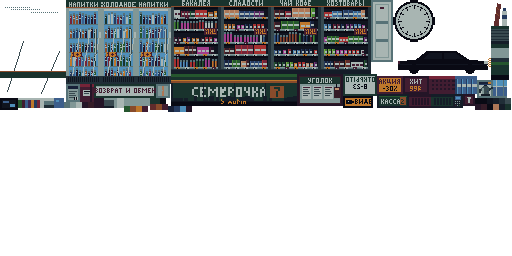
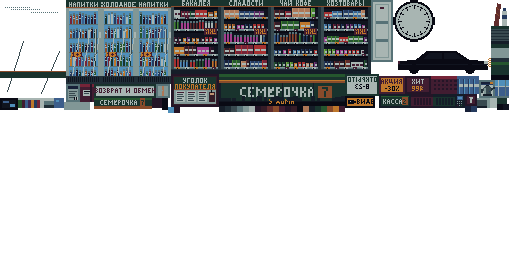
Магазин в узком кадре телефона читается: над администратором световой короб «Семёрочка 7», стеллажи вплотную к уголку, «Уголок покупателя» полностью, часы над левым стеллажом

Changed region(s): [[0.125, 0.2812, 1.0, 0.4375]]

diff --git a/src/game/world3d/rooms/shop.gen.ts b/src/game/world3d/rooms/shop.gen.ts
@@ -1,6 +1,6 @@
 // Сгенерировано tools/art/rooms_a.py — не править руками.
 // Раскладка атласа (x, y, w, h в текселях) и места вещей, по которым запечены тени и свет.
 
-export const ATLAS = {"w": 512, "h": 256, "rects": {"glass_in": [1, 1, 64, 96], "fridge0": [67, 1, 33, 82], "fridge1": [102, 1, 33, 82], "fridge2": [137, 1, 33, 82], "shelf0": [172, 1, 48, 72], "shelf1": [222, 1, 48, 72], "shelf2": [272, 1, 48, 72], "shelf3": [322, 1, 48, 72], "gate": [372, 1, 20, 60], "clock": [394, 1, 40, 40], "car_night": [394, 43, 96, 32], "counter_front": [172, 75, 124, 30], "board": [298, 75, 44, 30], "cart_goods": [492, 1, 16, 24], "hours": [344, 75, 32, 20], "akcia": [378, 77, 24, 16], "hit": [404, 77, 24, 16], "cart": [430, 77, 24, 16], "water6": [456, 77, 20, 16], "shelf_side": [492, 27, 16, 16], "fridge_side": [492, 45, 16, 16], "counter_side": [492, 63, 16, 16], "kettle_box": [478, 81, 14, 16], "water_side": [494, 81, 12, 16], "kettle_side": [67, 85, 12, 16], "ext": [81, 85, 12, 16], "ret_sign": [95, 85, 60, 12], "kassa": [378, 95, 30, 12], "basket": [410, 95, 20, 12], "basket_g": [432, 95, 20, 12], "kettle_top": [157, 85, 12, 12], "terminal": [454, 95, 8, 12], "cctv": [344, 97, 28, 10], "display": [1, 99, 16, 10], "ext_sign": [464, 95, 10, 10], "gum": [19, 99, 24, 8], "chrome": [45, 99, 8, 8], "water_top": [55, 99, 8, 8], "cart_top": [95, 99, 8, 8], "alu": [105, 99, 8, 8], "pole": [115, 99, 8, 8], "gate_edge": [125, 99, 24, 6], "clock_rim": [151, 99, 8, 4], "c36": [161, 99, 4, 4], "c37": [476, 99, 4, 4], "c38": [482, 99, 4, 4], "c39": [488, 99, 4, 4], "c40": [494, 99, 4, 4], "c41": [500, 99, 4, 4], "c42": [506, 99, 4, 4], "c43": [65, 103, 4, 4], "c44": [71, 103, 4, 4], "c45": [77, 103, 4, 4], "c19": [83, 103, 4, 4], "c20": [89, 103, 4, 4], "c21": [151, 105, 4, 4], "c22": [131, 107, 4, 4], "c27": [143, 107, 4, 4], "c12": [476, 105, 4, 4], "c13": [482, 105, 4, 4], "c18": [488, 105, 4, 4], "c16": [494, 105, 4, 4], "c7": [500, 105, 4, 4], "c8": [506, 105, 4, 4], "c9": [125, 107, 4, 4], "c23": [137, 107, 4, 4], "c2": [169, 107, 4, 4], "c3": [175, 107, 4, 4], "c5": [181, 107, 4, 4], "c26": [187, 107, 4, 4]}} as const
+export const ATLAS = {"w": 512, "h": 256, "rects": {"glass_in": [1, 1, 64, 96], "fridge0": [67, 1, 33, 82], "fridge1": [102, 1, 33, 82], "fridge2": [137, 1, 33, 82], "shelf0": [172, 1, 48, 72], "shelf1": [222, 1, 48, 72], "shelf2": [272, 1, 48, 72], "shelf3": [322, 1, 48, 72], "gate": [372, 1, 20, 60], "clock": [394, 1, 40, 40], "car_night": [394, 43, 96, 32], "board": [172, 75, 46, 31], "counter_front": [220, 75, 124, 30], "cart_goods": [492, 1, 16, 24], "hours": [346, 75, 32, 20], "akcia": [380, 77, 24, 16], "hit": [406, 77, 24, 16], "cart": [432, 77, 24, 16], "water6": [458, 77, 20, 16], "shelf_side": [492, 27, 16, 16], "fridge_side": [492, 45, 16, 16], "counter_side": [492, 63, 16, 16], "kettle_box": [480, 81, 14, 16], "water_side": [496, 81, 12, 16], "kettle_side": [67, 85, 12, 16], "ext": [81, 85, 12, 16], "ret_sign": [95, 85, 60, 12], "kassa": [380, 95, 30, 12], "basket": [412, 95, 20, 12], "basket_g": [434, 95, 20, 12], "kettle_top": [157, 85, 12, 12], "terminal": [456, 95, 8, 12], "cctv": [346, 97, 28, 10], "display": [1, 99, 16, 10], "ext_sign": [466, 95, 10, 10], "brand_box": [95, 99, 56, 9], "gum": [19, 99, 24, 8], "chrome": [45, 99, 8, 8], "water_top": [55, 99, 8, 8], "cart_top": [153, 99, 8, 8], "alu": [478, 99, 8, 8], "pole": [488, 99, 8, 8], "gate_edge": [65, 103, 24, 6], "clock_rim": [498, 99, 8, 4], "c36": [163, 99, 4, 4], "c37": [163, 105, 4, 4], "c38": [498, 105, 4, 4], "c39": [504, 105, 4, 4], "c40": [220, 107, 4, 4], "c41": [226, 107, 4, 4], "c42": [232, 107, 4, 4], "c43": [238, 107, 4, 4], "c44": [244, 107, 4, 4], "c45": [250, 107, 4, 4], "c19": [256, 107, 4, 4], "c20": [262, 107, 4, 4], "c21": [268, 107, 4, 4], "c22": [328, 107, 4, 4], "c27": [340, 107, 4, 4], "c12": [286, 107, 4, 4], "c13": [292, 107, 4, 4], "c18": [298, 107, 4, 4], "c16": [304, 107, 4, 4], "c7": [310, 107, 4, 4], "c8": [316, 107, 4, 4], "c9": [322, 107, 4, 4], "c23": [334, 107, 4, 4], "c2": [466, 107, 4, 4], "c3": [472, 107, 4, 4], "c5": [169, 108, 4, 4], "c26": [175, 108, 4, 4]}} as const
 
-export const PLACE = {"fridges": [-2.62, -0.1, 2.05, 0.66], "shelves": [["back", -3.15, 2, 1.8, 0.42, 0], ["back", 0.75, 2, 1.8, 0.42, 2], ["right", 0.3, 1, 1.8, 0.42, 1], ["front", -3.15, 1, 1.8, 0.4, 3], ["front", 1.95, 1, 1.8, 0.4, 0]], "board": [-0.56, 0.56, 1.0, 1.74], "ret_sign": [1.5, 2.0, 1.4, 0.28], "band": [2.32, 2.62], "glass": [-2.45, 1.95, 0.1, 2.5], "door": [-0.55, 0.7], "gates": [[-2.72, -0.75], [-2.72, 0.9]], "baskets": [-2.62, 1.5], "lamps": [[-1.3, -1.95], [1.3, -1.95], [-1.3, 0.45], [1.3, 0.45]], "kassa": [1.47, -0.8, 2.02], "kettle": [0.47, -0.78, -0.12], "gum": [1.3, 0.1, -0.12], "terminal": [0.8, -0.08, -0.35], "display": [1.3, -0.42, -0.35], "tray": [0.74, 0.17], "promo": [-1.82, -0.22], "cart": [1.84, -0.2], "view": [-3.5, -2.55, 2.05, -0.15, 2.75]} as const
+export const PLACE = {"fridges": [-2.62, -0.1, 2.05, 0.66], "shelves": [["back", -2.95, 2, 1.8, 0.42, 0], ["back", 0.55, 2, 1.8, 0.42, 2], ["right", 0.3, 1, 1.8, 0.42, 1], ["front", -3.15, 1, 1.8, 0.4, 3], ["front", 1.95, 1, 1.8, 0.4, 0]], "board": [-0.46, 0.46, 1.02, 1.68], "brand_box": [-0.62, 0.62, 1.78, 1.96], "clock": [-1.02, 1.99], "ret_sign": [1.36, 2.0, 1.3, 0.28], "band": [2.32, 2.62], "glass": [-2.45, 1.95, 0.1, 2.5], "door": [-0.55, 0.7], "gates": [[-2.72, -0.75], [-2.72, 0.9]], "baskets": [-2.62, 1.5], "lamps": [[-1.3, -1.95], [1.3, -1.95], [-1.3, 0.45], [1.3, 0.45]], "kassa": [1.47, -0.8, 2.02], "kettle": [0.47, -0.78, -0.12], "gum": [1.3, 0.1, -0.12], "terminal": [0.8, -0.08, -0.35], "display": [1.3, -0.42, -0.35], "tray": [0.74, 0.17], "promo": [-1.82, -0.22], "cart": [1.84, -0.2], "view": [-3.5, -2.55, 2.05, -0.15, 2.75]} as const

diff --git a/src/game/world3d/rooms/shop.ts b/src/game/world3d/rooms/shop.ts
@@ -92,16 +92,21 @@ function buildShop(): RoomBuild {
   // ------------------------------------------------------------------ задняя стена: уголок покупателя, «Возврат», часы
   const [bx0, bx1, by0, by1] = P.board
   box(bx1 - bx0, by1 - by0, 0.025, F('board', 'c20'), (bx0 + bx1) / 2, by0, BACK + 0.013)
+  const [qx0, qx1, qy0, qy1] = P.brand_box
+  box(qx1 - qx0, qy1 - qy0, 0.06, F('brand_box', 'c8', 'c8'), (qx0 + qx1) / 2, qy0, BACK + 0.03)
   const [rx, ry, rw, rh] = P.ret_sign
   box(rw, rh, 0.02, F('ret_sign', 'c8'), rx, ry - rh / 2, BACK + 0.012)
+  // часы над левым стеллажом: над собеседницей — световой короб «Семёрочки», чтобы и в узком кадре телефона был магазин
+  const [ckx, cky] = P.clock
+  const ckz = CLOCK.z
   const R = CLOCK.r * (20 / 17)
-  cyl(R, R, 0.045, 20, 'clock_rim', CLOCK.x, CLOCK.y, CLOCK.z - 0.03, 0, PI / 2, 0, true)
-  soup.add(new CircleGeometry(R, 24), at(CLOCK.x, CLOCK.y, CLOCK.z + 0.015), 'clock', 0)
-  cyl(0.012, 0.012, 0.012, 6, 'c37', CLOCK.x, CLOCK.y, CLOCK.z + 0.02, 0, PI / 2)
+  cyl(R, R, 0.045, 20, 'clock_rim', ckx, cky, ckz - 0.03, 0, PI / 2, 0, true)
+  soup.add(new CircleGeometry(R, 24), at(ckx, cky, ckz + 0.015), 'clock', 0)
+  cyl(0.012, 0.012, 0.012, 6, 'c37', ckx, cky, ckz + 0.02, 0, PI / 2)
   const handMat = kit.mat(null, false, 0x10141f)
   const hand = (len: number, w: number) => {
     const pivot = new Object3D()
-    pivot.position.set(CLOCK.x, CLOCK.y, CLOCK.z + 0.024)
+    pivot.position.set(ckx, cky, ckz + 0.024)
     pivot.add(kit.mesh(new BoxGeometry(w, len, 0.004).translate(0, len / 2 - 0.02, 0), handMat))
     g.add(pivot)
     return pivot

diff --git a/tools/art/rooms_a.py b/tools/art/rooms_a.py
@@ -1377,10 +1377,13 @@ H_PLACE = {
     # холодильники с напитками вдоль правой стены: z0, z1, высота, глубина
     'fridges': [-2.62, -0.1, 2.05, 0.66],
     # стеллажи секциями по 1.2 м: стена, начало, число секций, высота, глубина, первый вариант
-    'shelves': [['back', -3.15, 2, 1.8, 0.42, 0], ['back', 0.75, 2, 1.8, 0.42, 2],
+    'shelves': [['back', -2.95, 2, 1.8, 0.42, 0], ['back', 0.55, 2, 1.8, 0.42, 2],
                 ['right', 0.3, 1, 1.8, 0.42, 1], ['front', -3.15, 1, 1.8, 0.4, 3], ['front', 1.95, 1, 1.8, 0.4, 0]],
-    'board': [-0.56, 0.56, 1.0, 1.74],  # «Уголок покупателя» за администратором
-    'ret_sign': [1.5, 2.0, 1.4, 0.28],  # «Возврат и обмен»: x, y центра, ширина, высота
+    'board': [-0.46, 0.46, 1.02, 1.68],  # «Уголок покупателя» за администратором
+    # световой короб «Семёрочка» над уголком — в узком кадре телефона он прямо над головой собеседницы
+    'brand_box': [-0.62, 0.62, 1.78, 1.96],
+    'clock': [-1.02, 1.99],  # часы — над левым стеллажом
+    'ret_sign': [1.36, 2.0, 1.3, 0.28],  # «Возврат и обмен»: x, y центра, ширина, высота
     'band': [2.32, 2.62],  # фирменная полоса по верху стен
     'glass': [-2.45, 1.95, 0.1, 2.5],  # витрина в левой стене: z0, z1, y0, y1
     'door': [-0.55, 0.7],  # раздвижная дверь в витрине: z0, z1
@@ -1703,20 +1706,35 @@ def ret_sign():
 
 
 def board_tex():
-    """Уголок покупателя: зелёная шапка, листы правил, книга жалоб на верёвочке."""
-    t = Tex(44, 30, 20)
-    t.frame(0, 0, 43, 29, 19)
-    t.rect(2, 2, 41, 27, 44)
-    t.rect(2, 2, 41, 8, 8)
-    center_text(t, 22, 3, 'УГОЛОК', 45)
-    for (x0, y0) in ((4, 11), (15, 11), (26, 11)):
-        t.rect(x0, y0, x0 + 8, y0 + 12, 45)
+    """Уголок покупателя: зелёная шапка в две строки, листы правил, книга жалоб на верёвочке."""
+    t = Tex(46, 31, 20)
+    t.frame(0, 0, 45, 30, 19)
+    t.rect(2, 2, 43, 28, 44)
+    t.rect(2, 2, 43, 14, 8)
+    t.rect(2, 14, 43, 14, 22)
+    center_text(t, 23, 3, 'УГОЛОК', 45)
+    center_text(t, 23, 9, 'ПОКУПАТЕЛЯ', 23)
+    for (x0, y0) in ((4, 16), (15, 16), (26, 16)):
+        t.rect(x0, y0, x0 + 8, y0 + 10, 45)
         t.rect(x0 + 1, y0 + 1, x0 + 7, y0 + 1, 27)
-        for yy in range(y0 + 3, y0 + 11, 2):
+        for yy in range(y0 + 3, y0 + 10, 2):
             t.rect(x0 + 1, yy, x0 + 7 - (yy % 3), yy, 42)
-    t.rect(36, 12, 41, 22, 13)  # книга жалоб
-    t.rect(37, 13, 40, 14, 17)
-    t.line([(38, 9), (38, 12)], 37)
+    t.rect(37, 17, 42, 26, 13)  # книга жалоб
+    t.rect(38, 18, 41, 19, 17)
+    t.line([(39, 15), (39, 17)], 37)
+    return t
+
+
+def brand_box():
+    """Световой короб над уголком: «СЕМЁРОЧКА» и жёлтый квадрат с семёркой."""
+    t = Tex(56, 9, 8)
+    t.rect(0, 0, 55, 0, 9)
+    t.rect(0, 7, 55, 8, 22)
+    x = (56 - (text_w('СЕМЁРОЧКА') + 3 + 5)) // 2
+    t.text(x, 1, 'СЕМЁРОЧКА', 45)
+    sx = x + text_w('СЕМЁРОЧКА') + 3
+    t.rect(sx, 0, sx + 4, 6, 22)
+    t.text(sx + 1, 1, '7', 8)
     return t
 
 
@@ -1787,6 +1805,7 @@ def shop_atlas(P):
     at.add('counter_side', t)
     at.add('ret_sign', ret_sign())
     at.add('board', board_tex())
+    at.add('brand_box', brand_box())
     at.add('kassa', kassa_tex())
     at.add('kettle_box', kettle_box())
     at.add('kettle_side', kettle_side())
